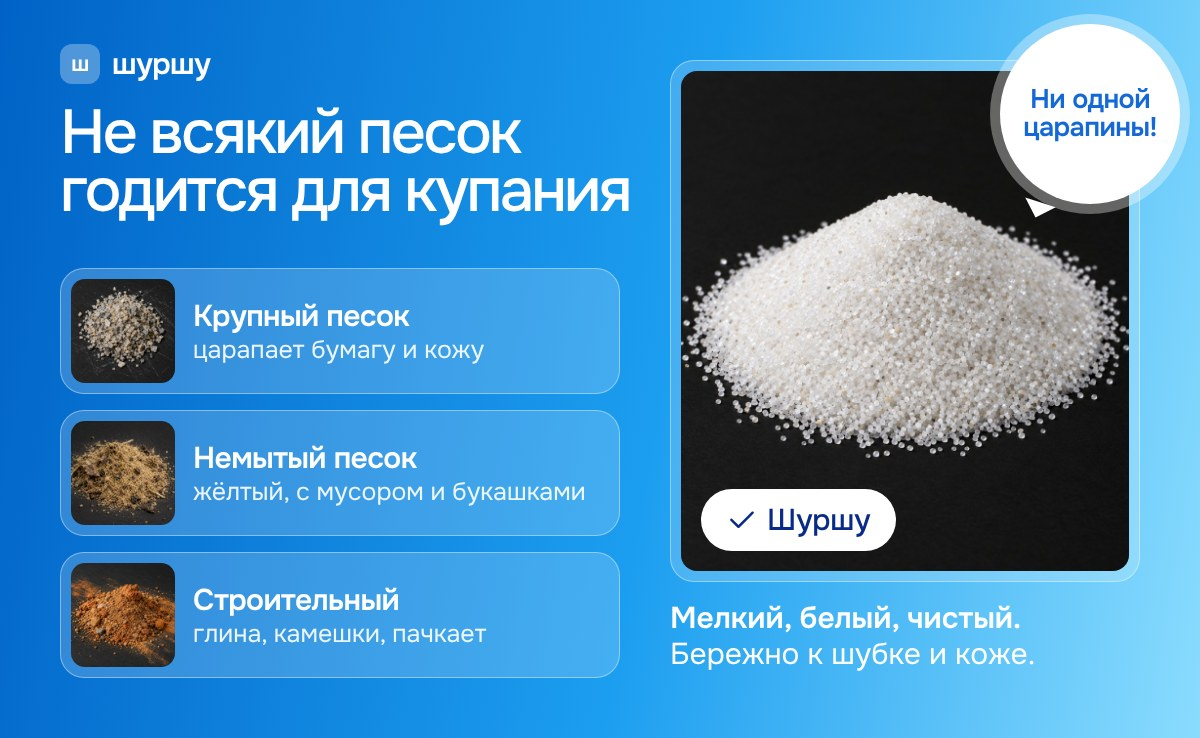
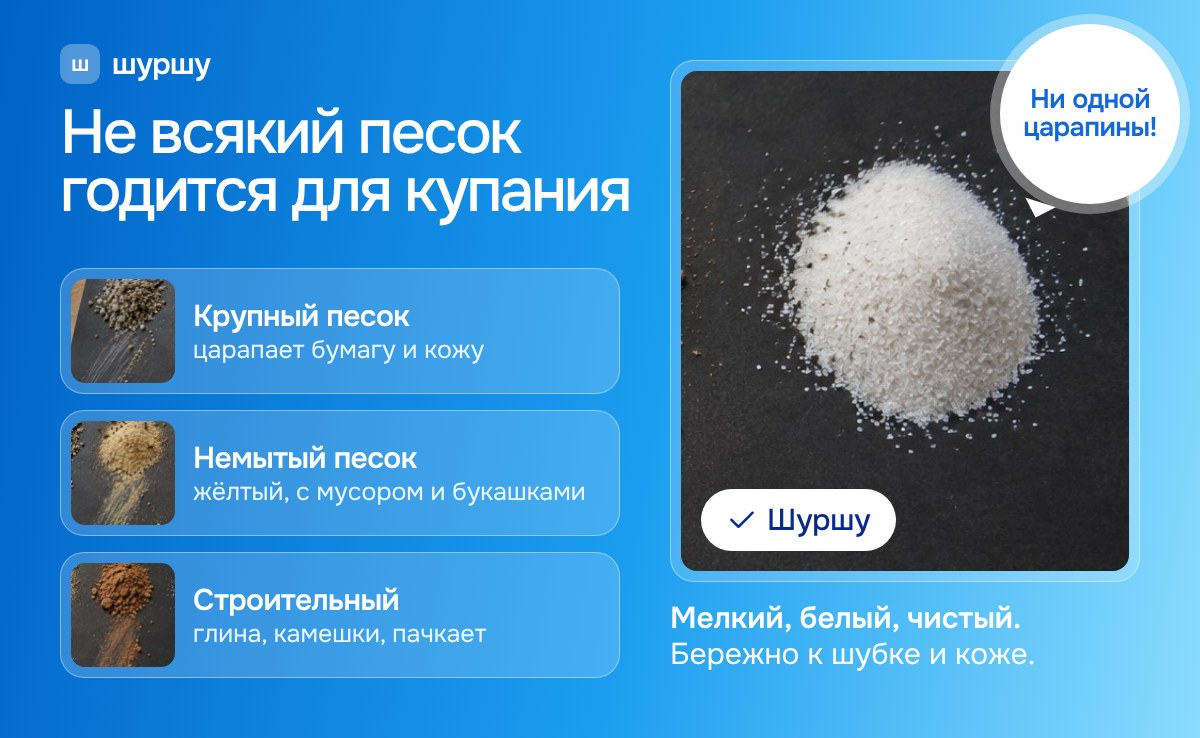
Сравнение песка: реалистичное фото
Claude-Session: https://claude.ai/code/session_01SsYRxt5brww1pccVGDkwY7

diff --git a/index.html b/index.html
@@ -133,7 +133,7 @@ th{font-size:13px;color:var(--soft);font-weight:600}td:first-child{font-weight:6
 </div>
 <div id="rich" class="pane"><p class="lead" style="margin-top:0">Рич-контент для Ozon в стиле Шуршу (28.11). 6 слайдов 1200×738, идут друг под другом. На последний слайд в редакторе Ozon ставится ссылка на наш магазин.</p>
 <div class="rstack"><figure class="rf"><a href="img/rich/slide1.jpg" target="_blank" rel="noopener"><img src="img/rich/slide1.jpg" alt="Слайд 1: Лучший песок для Вашего питомца" width="1200" height="738" loading="lazy"></a><figcaption><b>1</b> Лучший песок для Вашего питомца</figcaption></figure><figure class="rf"><a href="img/rich/slide2.jpg" target="_blank" rel="noopener"><img src="img/rich/slide2.jpg" alt="Слайд 2: Чистый песок, чистая шубка" width="1200" height="738" loading="lazy"></a><figcaption><b>2</b> Чистый песок, чистая шубка</figcaption></figure><figure class="rf"><a href="img/rich/slide3.jpg" target="_blank" rel="noopener"><img src="img/rich/slide3.jpg" alt="Слайд 3: Маленький спа-день" width="1200" height="738" loading="lazy"></a><figcaption><b>3</b> Маленький спа-день</figcaption></figure><figure class="rf"><a href="img/rich/slide4.jpg" target="_blank" rel="noopener"><img src="img/rich/slide4.jpg" alt="Слайд 4: Любимый песок всей пушистой семьи" width="1200" height="738" loading="lazy"></a><figcaption><b>4</b> Любимый песок всей пушистой семьи</figcaption></figure><figure class="rf"><a href="img/rich/slide5.jpg" target="_blank" rel="noopener"><img src="img/rich/slide5.jpg" alt="Слайд 5: Как купать" width="1200" height="738" loading="lazy"></a><figcaption><b>5</b> Как купать</figcaption></figure><figure class="rf"><a href="img/rich/slide6.jpg" target="_blank" rel="noopener"><img src="img/rich/slide6.jpg" alt="Слайд 6: Больше выбора тут… Жми на фото (ссылка на магазин)" width="1200" height="738" loading="lazy"></a><figcaption><b>6</b> Больше выбора тут… Жми на фото (ссылка на магазин)</figcaption></figure></div>
-<h2>Слайд сравнения песка: 5 вариантов (28.11)</h2><p class="small">Крупный, немытый и строительный песок против нашего на чёрной бумаге. Выбираем один.</p><div class="rstack"><figure class="rf"><a href="img/rich/sravn1.jpg" target="_blank" rel="noopener"><img src="img/rich/sravn1.jpg" alt="Сравнение, вариант 1" width="1200" height="738" loading="lazy"></a><figcaption><b>1</b> Сравните сами</figcaption></figure><figure class="rf"><a href="img/rich/sravn2.jpg" target="_blank" rel="noopener"><img src="img/rich/sravn2.jpg" alt="Сравнение, вариант 2" width="1200" height="738" loading="lazy"></a><figcaption><b>2</b> Тест на чёрной бумаге</figcaption></figure><figure class="rf"><a href="img/rich/sravn3.jpg" target="_blank" rel="noopener"><img src="img/rich/sravn3.jpg" alt="Сравнение, вариант 3" width="1200" height="738" loading="lazy"></a><figcaption><b>3</b> Трое против одного</figcaption></figure><figure class="rf"><a href="img/rich/sravn4.jpg" target="_blank" rel="noopener"><img src="img/rich/sravn4.jpg" alt="Сравнение, вариант 4" width="1200" height="738" loading="lazy"></a><figcaption><b>4</b> Посмотрите поближе</figcaption></figure><figure class="rf"><a href="img/rich/sravn5.jpg" target="_blank" rel="noopener"><img src="img/rich/sravn5.jpg" alt="Сравнение, вариант 5" width="1200" height="738" loading="lazy"></a><figcaption><b>5</b> Какой песок выбрать</figcaption></figure></div><p class="sitesnote">Нажмите на слайд, чтобы открыть его в полном размере и сохранить. Фото зверьков сгенерированы. Если модерация Ozon не пропустит слово «Лучший», заменим заголовок на «Песок, который любят питомцы».</p></div>
+<h2>Слайд сравнения песка: 5 вариантов (28.11)</h2><p class="small">Крупный, немытый и строительный песок против нашего на чёрной бумаге. Фото в стиле обычного снимка на телефон. Выбираем один.</p><div class="rstack"><figure class="rf"><a href="img/rich/sravn1.jpg?v=2" target="_blank" rel="noopener"><img src="img/rich/sravn1.jpg?v=2" alt="Сравнение, вариант 1" width="1200" height="738" loading="lazy"></a><figcaption><b>1</b> Сравните сами</figcaption></figure><figure class="rf"><a href="img/rich/sravn2.jpg?v=2" target="_blank" rel="noopener"><img src="img/rich/sravn2.jpg?v=2" alt="Сравнение, вариант 2" width="1200" height="738" loading="lazy"></a><figcaption><b>2</b> Тест на чёрной бумаге</figcaption></figure><figure class="rf"><a href="img/rich/sravn3.jpg?v=2" target="_blank" rel="noopener"><img src="img/rich/sravn3.jpg?v=2" alt="Сравнение, вариант 3" width="1200" height="738" loading="lazy"></a><figcaption><b>3</b> Трое против одного</figcaption></figure><figure class="rf"><a href="img/rich/sravn4.jpg?v=2" target="_blank" rel="noopener"><img src="img/rich/sravn4.jpg?v=2" alt="Сравнение, вариант 4" width="1200" height="738" loading="lazy"></a><figcaption><b>4</b> Посмотрите поближе</figcaption></figure><figure class="rf"><a href="img/rich/sravn5.jpg?v=2" target="_blank" rel="noopener"><img src="img/rich/sravn5.jpg?v=2" alt="Сравнение, вариант 5" width="1200" height="738" loading="lazy"></a><figcaption><b>5</b> Какой песок выбрать</figcaption></figure></div><p class="sitesnote">Нажмите на слайд, чтобы открыть его в полном размере и сохранить. Фото зверьков сгенерированы. Если модерация Ozon не пропустит слово «Лучший», заменим заголовок на «Песок, который любят питомцы».</p></div>
 <section class="todo"><h2>С чего начать</h2><ol>
 <li>Снять 2 видео: песок сыплется без пыли, ложка песка в стакане воды</li>
 <li>Взвесить песок в купалках хомяка, дегу и шиншиллы</li>
